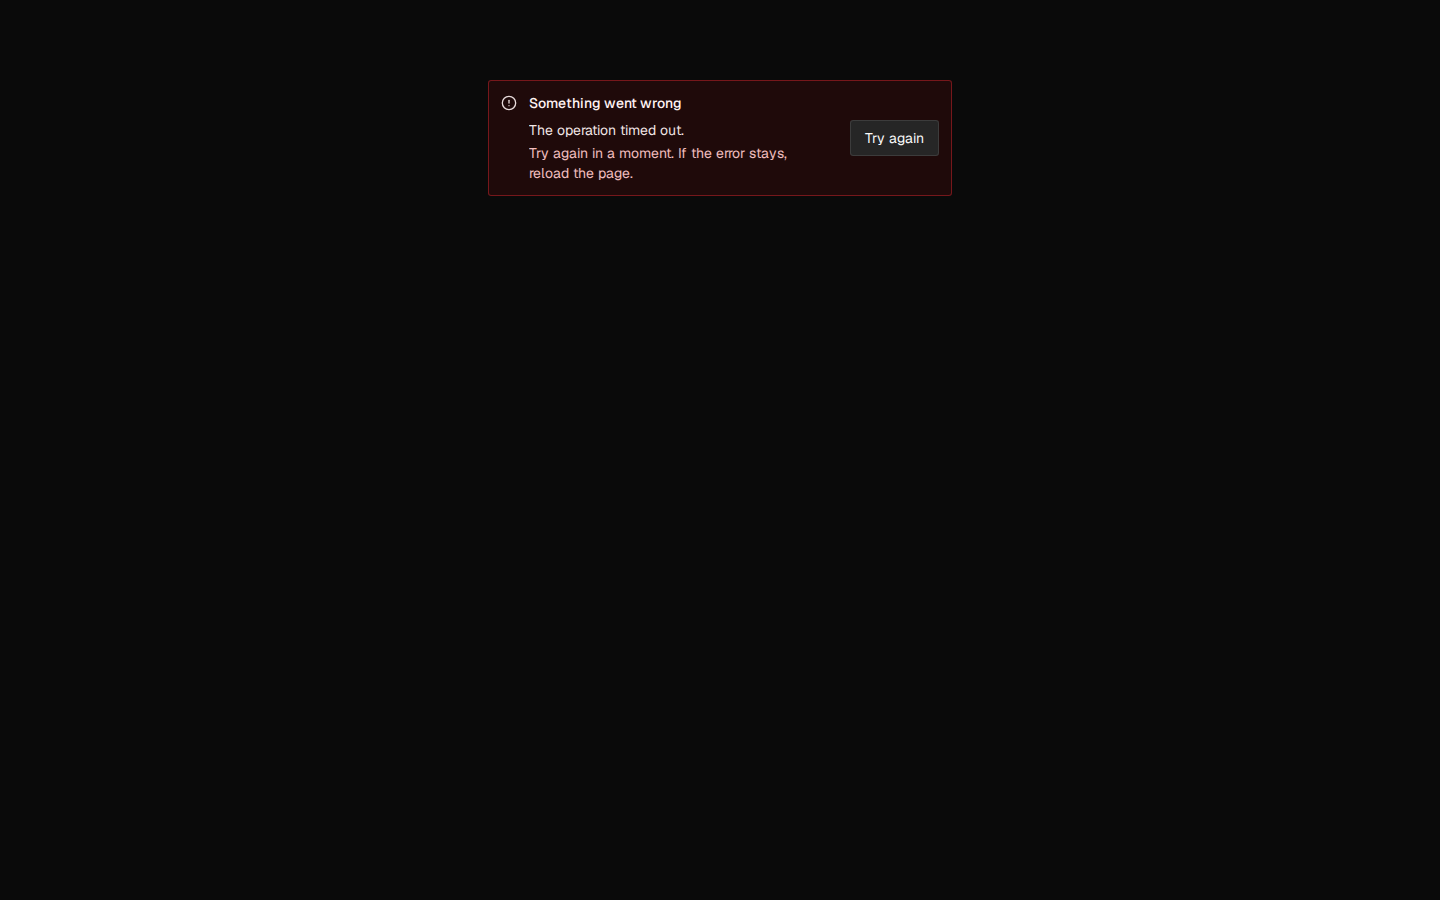
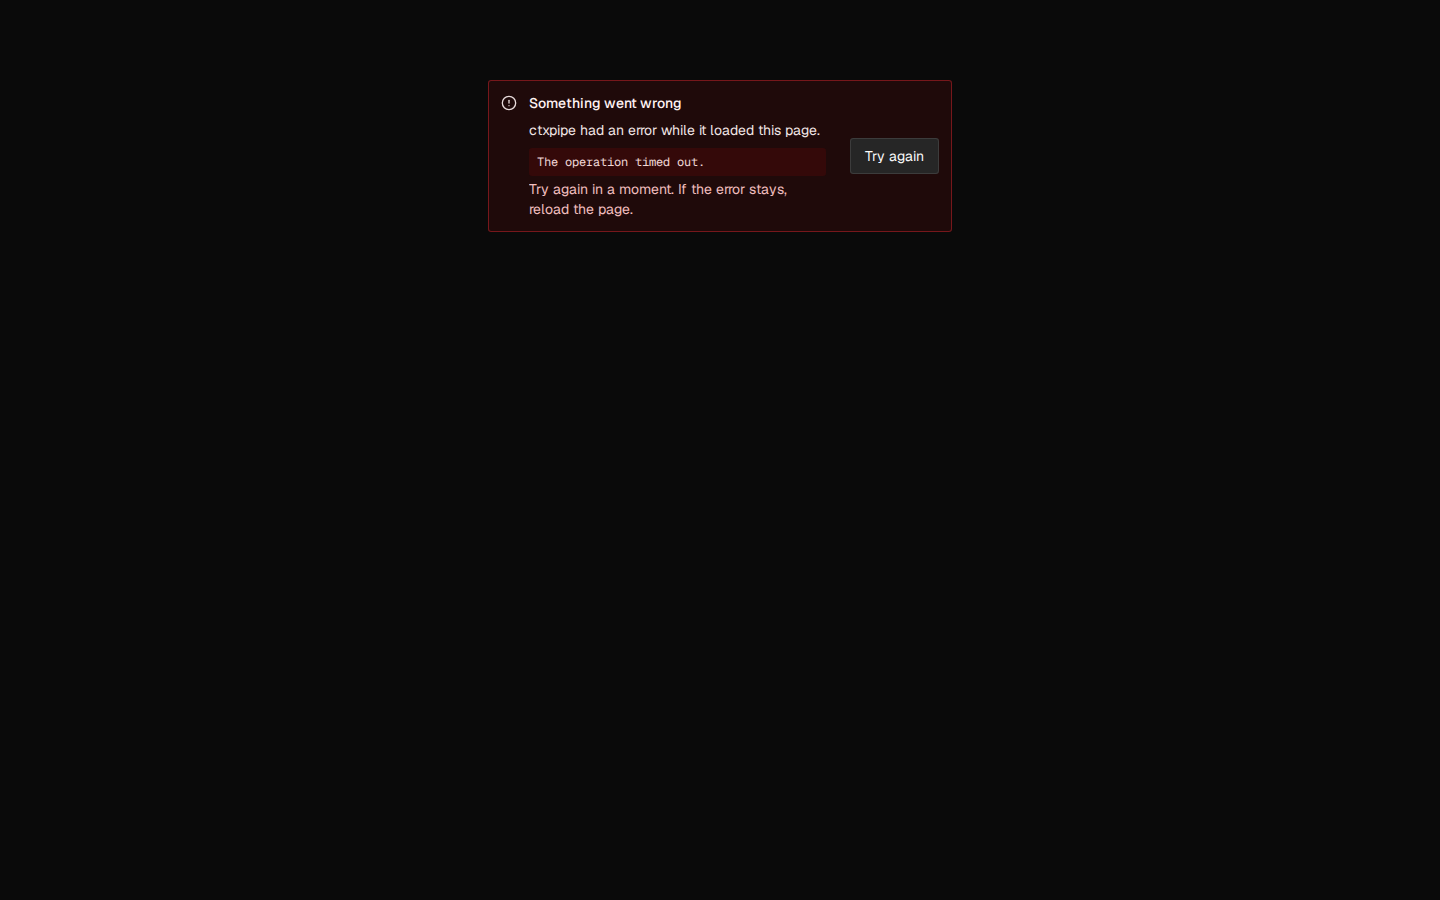
Fix the round-13 critic findings of PR 722 (CTX-1270)
- R5 on the page error: one short sentence from the status, and the raw
  reason in a small capped mono block.
- The connector README names the real prop (`mergeStep`) and the 18 px
  marker box. The setup frame comment no longer puts list checkboxes on
  the body edge.
- `UpgradeFailureDetail` is the component; `UpgradeFailure` stays the type.
- InlineAlert sets the warning yellow once.

Changed region(s): [[0.3438, 0.1244, 0.6562, 0.2489]]

diff --git a/apps/ui/src/features/org/OrgOutletError.tsx b/apps/ui/src/features/org/OrgOutletError.tsx
@@ -3,14 +3,12 @@ import { InlineAlert } from "@/components/ui/InlineAlert"
 import { ApiError } from "@/lib/api-result"
 
 /**
- * What went wrong, in words that do not repeat the title. A server reason
- * wins. Without one, the status says where the request failed: the client
- * fallback message of a query ("Failed to load …") only says the title again.
+ * What went wrong, in one short sentence that does not repeat the title. The
+ * status says where the request failed: the client fallback message of a
+ * query ("Failed to load …") only says the title again.
  */
-function errorDetail(error: unknown): string {
+function errorSummary(error: unknown): string {
   if (error instanceof ApiError) {
-    const reason = error.body.error ?? error.body.message
-    if (reason?.trim()) return reason
     if (error.status === 0) {
       return "ctxpipe could not reach the server. Check your network connection."
     }
@@ -19,8 +17,21 @@ function errorDetail(error: unknown): string {
     }
     return `The server refused the request (status ${error.status}).`
   }
-  if (error instanceof Error && error.message.trim()) return error.message
-  return "ctxpipe gave no reason."
+  return "ctxpipe had an error while it loaded this page."
+}
+
+/**
+ * The raw reason (a server reason or an error message), or null. It can be
+ * long machine text, so it shows in a small capped block.
+ */
+function rawReason(error: unknown): string | null {
+  const reason =
+    error instanceof ApiError
+      ? (error.body.error ?? error.body.message)
+      : error instanceof Error
+        ? error.message
+        : null
+  return reason?.trim() ? reason : null
 }
 
 export function OrgOutletError(props: {
@@ -30,6 +41,7 @@ export function OrgOutletError(props: {
 }) {
   const requestId =
     props.error instanceof ApiError ? props.error.requestId : undefined
+  const reason = rawReason(props.error)
 
   return (
     <main className="mx-auto max-w-lg px-6 py-16">
@@ -45,7 +57,12 @@ export function OrgOutletError(props: {
           ) : undefined
         }
       >
-        <p>{errorDetail(props.error)}</p>
+        <p>{errorSummary(props.error)}</p>
+        {reason ? (
+          <p className="mt-2 max-h-24 overflow-y-auto rounded-md bg-red-950/60 px-2 py-1.5 font-mono text-xs wrap-anywhere text-red-100">
+            {reason}
+          </p>
+        ) : null}
         <p className="mt-1 text-red-200">
           {props.reset ? "Try again in a moment." : "Reload the page."}
           {requestId

diff --git a/apps/ui/src/components/ui/InlineAlert.tsx b/apps/ui/src/components/ui/InlineAlert.tsx
@@ -17,7 +17,10 @@ const variantClass: Record<InlineAlertVariant, string> = {
   success: "border-teal-500/40 bg-teal-950/25 text-teal-50",
 }
 
-/** The icon color of an alert without a frame: the one color of the alert. */
+/**
+ * The icon color of an alert without a frame: the one color of the alert. A
+ * framed warning uses the same yellow.
+ */
 const plainIconClass: Record<InlineAlertVariant, string> = {
   error: "text-red-400",
   warning: "text-amber-300",
@@ -80,11 +83,9 @@ export function InlineAlert({
     >
       <Icon
         className={`mt-0.5 size-4 shrink-0 ${
-          !framed
-            ? plainIconClass[variant]
-            : variant === "warning"
-              ? "text-amber-300"
-              : "opacity-90"
+          framed && variant !== "warning"
+            ? "opacity-90"
+            : plainIconClass[variant]
         }`}
         aria-hidden
       />

diff --git a/apps/ui/src/features/connectors/components/ConnectorSetupFrame.tsx b/apps/ui/src/features/connectors/components/ConnectorSetupFrame.tsx
@@ -7,8 +7,9 @@ import { Button } from "@/components/ui/Button"
  * on one grid. The header and the footer stay in view, and only the body
  * scrolls: the dialog (`Modal` with `flex flex-col`) is never taller than the
  * viewport, so the one Close control always shows. The leading markers of
- * the dialog (the mark, the step markers, the form and list checkboxes) start
- * on the left edge of the body. See README.md in this folder.
+ * the dialog (the mark, the step markers, the form checkboxes) start on the
+ * left edge of the body. A scope list keeps its frame, with its checkboxes
+ * inside it. See README.md in this folder.
  */
 export function ConnectorSetupFrame(props: {
   icon: ReactNode

diff --git a/apps/ui/src/features/workspace-upgrades/WorkspaceUpgrades.tsx b/apps/ui/src/features/workspace-upgrades/WorkspaceUpgrades.tsx
@@ -336,7 +336,7 @@ function UpgradeDetail(props: {
 
       {item.status === "failed" ? (
         item.failure ? (
-          <UpgradeFailure
+          <UpgradeFailureDetail
             item={item}
             failure={item.failure}
             orgSlug={props.orgSlug}
@@ -485,7 +485,7 @@ function UpgradeItemCard(props: {
 }
 
 /** A failed item: the step that failed, why, and the fix (CTX-895). */
-function UpgradeFailure(props: {
+function UpgradeFailureDetail(props: {
   item: WorkspaceUpgradeItem
   failure: UpgradeFailure
   orgSlug: string | undefined

diff --git a/apps/ui/src/features/connectors/components/README.md b/apps/ui/src/features/connectors/components/README.md
@@ -19,7 +19,7 @@ Every connector setup dialog (Linear, Notion, Confluence, Slack, PagerDuty, Buil
 
 - **Zones:** a header with the `ctx-node` mark, a body, and a footer with the one Close button at the bottom right. There is no other close control.
 - **Fit:** the dialog is never taller than the viewport. The header and the footer stay in view, and only the body scrolls.
-- **One axis for siblings:** the mark of the header, the setup steps (`ConnectorSetupStepper`), the marker of the merge step and the form checkboxes start on the left edge of the body.
+- **One axis for siblings:** the mark of the header, the setup steps (`ConnectorSetupStepper`), the marker of the merge step and the form checkboxes start on the left edge of the body. A step marker has the 18 px box of a checkbox, so the markers share one center line (the `axes` layout check).
 - **Hierarchy before alignment:** a scope list (teams and projects, channels, pipelines, spaces) is a child group. It keeps its frame (`rounded-md border border-border`), and its checkboxes start 12 px inside the frame. Do not remove the frame or the inset to put the checkboxes on the body edge.
-- **Merge step:** "Merge the pull request" is the last item of the setup steps: `PullRequestsToMerge` as the `finalStep` of `ConnectorSetupStepper`. It is a selected item with semantic tokens (`bg-muted`, `ring-border`), not a zinc panel.
+- **Merge step:** "Merge the pull request" is the last item of the setup steps: `PullRequestsToMerge` in the `mergeStep` of `ConnectorSetupStepper`. It is a selected item with semantic tokens (`bg-muted`, `ring-border`), not a zinc panel.
 - **Tokens:** use semantic color tokens and `rounded-md`. Do not nest a card in a card. Do not add a filled `bg-zinc-900` panel.
